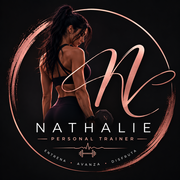
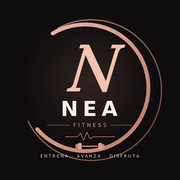
Rebranding NEA FITNESS y ocultar diario de comida

diff --git a/src/app/(tabs)/page.tsx b/src/app/(tabs)/page.tsx
@@ -26,8 +26,6 @@ export default function Inicio() {
   const [programTitle, setProgramTitle] = useState<string | null>(null);
   const [logsToday, setLogsToday] = useState(0);
   const [checkinSent, setCheckinSent] = useState(false);
-  const [kcal, setKcal] = useState(0);
-  const [kcalTarget, setKcalTarget] = useState<number | null>(null);
   const [lastWeight, setLastWeight] = useState<number | null>(null);
   const [unread, setUnread] = useState(0);
   const [plan, setPlan] = useState<Plan | null>(null);
@@ -44,7 +42,7 @@ export default function Inicio() {
       const uid = u.user?.id;
       if (!uid) { setLoading(false); return; }
       const today = new Date().toISOString().slice(0, 10);
-      const [{ data: prog }, { count: logs }, { data: ci }, { data: fd }, { data: mp }, { data: ms }, { data: hb }, { data: hl }, unreadMsgs,
+      const [{ data: prog }, { count: logs }, { data: ci }, { data: ms }, { data: hb }, { data: hl }, unreadMsgs,
         { data: nextAp }, pendingAp] = await Promise.all([
         // mismo criterio que la pestaña Entreno: el activo y, si no hay, el más reciente
         sb.from("programs").select(PLAN_SELECT).eq("client_id", uid)
@@ -54,9 +52,6 @@ export default function Inicio() {
           .eq("client_id", uid).eq("performed_at", today),
         sb.from("check_ins").select("id").eq("client_id", uid)
           .eq("week_start", mondayOf(new Date())).maybeSingle(),
-        sb.from("food_diary").select("kcal").eq("client_id", uid).eq("eaten_on", today),
-        sb.from("meal_plans").select("kcal_target").eq("client_id", uid)
-          .order("created_at", { ascending: false }).limit(1).maybeSingle(),
         sb.from("measurements").select("weight_kg").eq("client_id", uid)
           .not("weight_kg", "is", null).order("measured_at", { ascending: false }).limit(1).maybeSingle(),
         sb.from("habits").select("id,title").eq("client_id", uid).eq("active", true).order("title"),
@@ -72,8 +67,6 @@ export default function Inicio() {
       setProgramTitle(prog?.title ?? null);
       setLogsToday(logs || 0);
       setCheckinSent(!!ci);
-      setKcal((fd || []).reduce((s, r) => s + (r.kcal || 0), 0));
-      setKcalTarget(mp?.kcal_target ?? null);
       setLastWeight(ms?.weight_kg ?? null);
       setUnread(unreadMsgs);
       setPlan((prog as unknown as Plan) || null);
@@ -129,13 +122,13 @@ export default function Inicio() {
   const habitsDone = habits.filter((h) => h.done).length;
   const dayTotal = habits.length + (programTitle ? 1 : 0);
   const dayDone = habitsDone + (programTitle && logsToday > 0 ? 1 : 0);
-  const ringValue = dayTotal > 0 ? dayDone / dayTotal : kcalTarget ? Math.min(1, kcal / kcalTarget) : 0;
+  const ringValue = dayTotal > 0 ? dayDone / dayTotal : 0;
   const todaySession = sessionOn(plan, new Date());
 
   return (
     <main className="space-y-5">
       <header>
-        <p className="eyebrow">Nathalie · Personal Trainer</p>
+        <p className="eyebrow">NEA FITNESS</p>
         <h1 className="mt-1 text-2xl font-bold">Hola, <ProfileName /></h1>
       </header>
 
@@ -148,8 +141,8 @@ export default function Inicio() {
             </>
           ) : (
             <>
-              <span className="figure text-2xl">{kcal}</span>
-              <span className="text-[11px] text-muted">{kcalTarget ? `/ ${kcalTarget} kcal` : "kcal hoy"}</span>
+              <span className="figure text-3xl">0</span>
+              <span className="px-2 text-center text-[11px] leading-tight text-muted">Sin plan asignado</span>
             </>
           )}
         </Ring>
@@ -247,16 +240,6 @@ export default function Inicio() {
             {checkinSent ? "Hecho" : "Completar"}
           </span>
         </div>
-      </Link>
-
-      <Link href="/diario" className="card block p-4">
-        <div className="flex items-baseline justify-between">
-          <p className="eyebrow">Comidas de hoy</p>
-          <span className="figure text-sm">{kcal}{kcalTarget ? ` / ${kcalTarget}` : ""} kcal</span>
-        </div>
-        <p className="mt-1 text-sm text-muted">
-          {kcal > 0 ? "Sigue registrando en tu diario 📷" : "Escanea o apunta tu primera comida"}
-        </p>
       </Link>
 
       {lastWeight != null && (

diff --git a/src/app/(tabs)/nutricion/page.tsx b/src/app/(tabs)/nutricion/page.tsx
@@ -86,10 +86,6 @@ export default function Nutricion() {
             className="rounded-full border border-line px-3 py-2 text-xs font-medium">
             Compra 🛒
           </Link>
-          <Link href="/diario"
-            className="rounded-full bg-accent px-3 py-2 text-xs font-semibold text-accent-ink">
-            Diario 📷
-          </Link>
         </div>
       </header>
 
@@ -97,9 +93,6 @@ export default function Nutricion() {
         <div className="card p-6 text-center">
           <p className="text-3xl" aria-hidden>🥗</p>
           <p className="mt-2 text-sm">Tu entrenadora aún no te ha asignado un plan de comidas.</p>
-          <p className="mt-1 text-xs text-muted">
-            Mientras tanto, puedes registrar lo que comes en tu diario con el lector de códigos.
-          </p>
         </div>
       ) : (
         <>

diff --git a/src/app/layout.tsx b/src/app/layout.tsx
@@ -2,10 +2,11 @@ import type { Metadata, Viewport } from "next";
 import "./globals.css";
 
 export const metadata: Metadata = {
-  title: "Nathalie · Personal Trainer",
+  title: "NEA FITNESS",
   description: "Entrena · Avanza · Disfruta. Entrenamiento, nutrición y progreso con Nathalie.",
   manifest: "/manifest.webmanifest",
-  appleWebApp: { capable: true, statusBarStyle: "black-translucent", title: "Nathalie" },
+  appleWebApp: { capable: true, statusBarStyle: "black-translucent", title: "NEA" },
+  icons: { icon: "/icon-192.png", apple: "/apple-touch-icon.png" },
 };
 
 export const viewport: Viewport = {

diff --git a/src/app/nueva-contrasena/page.tsx b/src/app/nueva-contrasena/page.tsx
@@ -61,7 +61,7 @@ export default function NuevaContrasena() {
   return (
     <main className="mx-auto flex min-h-dvh max-w-md flex-col justify-center px-6 py-10">
       <div className="flex justify-center">
-        <Image src="/logo.png" alt="Nathalie · Personal Trainer" width={230} height={230}
+        <Image src="/logo.png" alt="NEA FITNESS" width={230} height={230}
           priority className="h-auto w-40" />
       </div>
       <p className="eyebrow mt-6 text-center">Nueva contraseña</p>

diff --git a/src/app/recuperar/page.tsx b/src/app/recuperar/page.tsx
@@ -32,7 +32,7 @@ export default function Recuperar() {
   return (
     <main className="mx-auto flex min-h-dvh max-w-md flex-col justify-center px-6 py-10">
       <div className="flex justify-center">
-        <Image src="/logo.png" alt="Nathalie · Personal Trainer" width={230} height={230}
+        <Image src="/logo.png" alt="NEA FITNESS" width={230} height={230}
           priority className="h-auto w-40" />
       </div>
       <p className="eyebrow mt-6 text-center">Recuperar contraseña</p>

diff --git a/src/lib/ics.ts b/src/lib/ics.ts
@@ -36,7 +36,7 @@ function fold(line: string): string {
 }
 
 /** Un .ics con una cita y un recordatorio una hora antes. */
-export function appointmentToIcs(a: Appointment, organiser = "Nathalie · Personal Trainer"): string {
+export function appointmentToIcs(a: Appointment, organiser = "NEA FITNESS"): string {
   const start = new Date(a.starts_at);
   const end = new Date(start.getTime() + a.duration_min * 60000);
   const description = [a.note, a.kind === "videollamada" ? a.location : null]

diff --git a/src/app/privacidad/page.tsx b/src/app/privacidad/page.tsx
@@ -93,7 +93,7 @@ export default function Privacidad() {
   return (
     <main className="mx-auto flex min-h-dvh max-w-md flex-col px-6 py-10">
       <div className="flex justify-center">
-        <Image src="/logo.png" alt="Nathalie · Personal Trainer" width={230} height={230}
+        <Image src="/logo.png" alt="NEA FITNESS" width={230} height={230}
           priority className="h-auto w-32" />
       </div>
       <p className="eyebrow mt-6 text-center">Privacidad</p>

diff --git a/src/components/CoachHeader.tsx b/src/components/CoachHeader.tsx
@@ -41,7 +41,7 @@ export default function CoachHeader() {
     <header className="border-b border-line print:hidden">
       <div className="mx-auto flex max-w-4xl items-center justify-between px-4 py-3">
         <div>
-          <p className="eyebrow">Panel · Nathalie</p>
+          <p className="eyebrow">Panel · NEA FITNESS</p>
           <p className="text-sm font-semibold">{name || "\u00A0"}</p>
         </div>
         <button

diff --git a/src/app/coach/clientes/[id]/informe/page.tsx b/src/app/coach/clientes/[id]/informe/page.tsx
@@ -133,7 +133,7 @@ export default function InformeProgreso({ params }: { params: Promise<{ id: stri
         )}
 
         <footer className="mt-8 border-t border-[#dddddd] pt-3 text-[10px] text-[#999999]">
-          Nathalie · Personal Trainer
+          NEA FITNESS
         </footer>
       </article>
     </>

diff --git a/src/lib/demo-data.ts b/src/lib/demo-data.ts
@@ -2,7 +2,7 @@
 // las pantallas leerán de Supabase; mientras tanto, la app es 100% navegable.
 
 export const demo = {
-  client: { name: "Laura", coach: "Nathalie · Personal Trainer" },
+  client: { name: "Laura", coach: "NEA FITNESS" },
 
   today: {
     dayLabel: "Semana 2 · Día 1 — Tren inferior",

diff --git a/src/app/login/page.tsx b/src/app/login/page.tsx
@@ -34,7 +34,7 @@ export default function Login() {
       <div className="flex justify-center">
         <Image
           src="/logo.png"
-          alt="Nathalie · Personal Trainer"
+          alt="NEA FITNESS"
           width={230}
           height={230}
           priority

diff --git a/src/app/globals.css b/src/app/globals.css
@@ -1,7 +1,7 @@
 @import "tailwindcss";
 
 @theme {
-  /* Marca Nathalie: negro cálido + rose gold del logo */
+  /* Marca NEA FITNESS: negro cálido + rose gold del logo */
   --color-bg: #0f0c0d;
   --color-surface: #191416;
   --color-raised: #221b1e;
